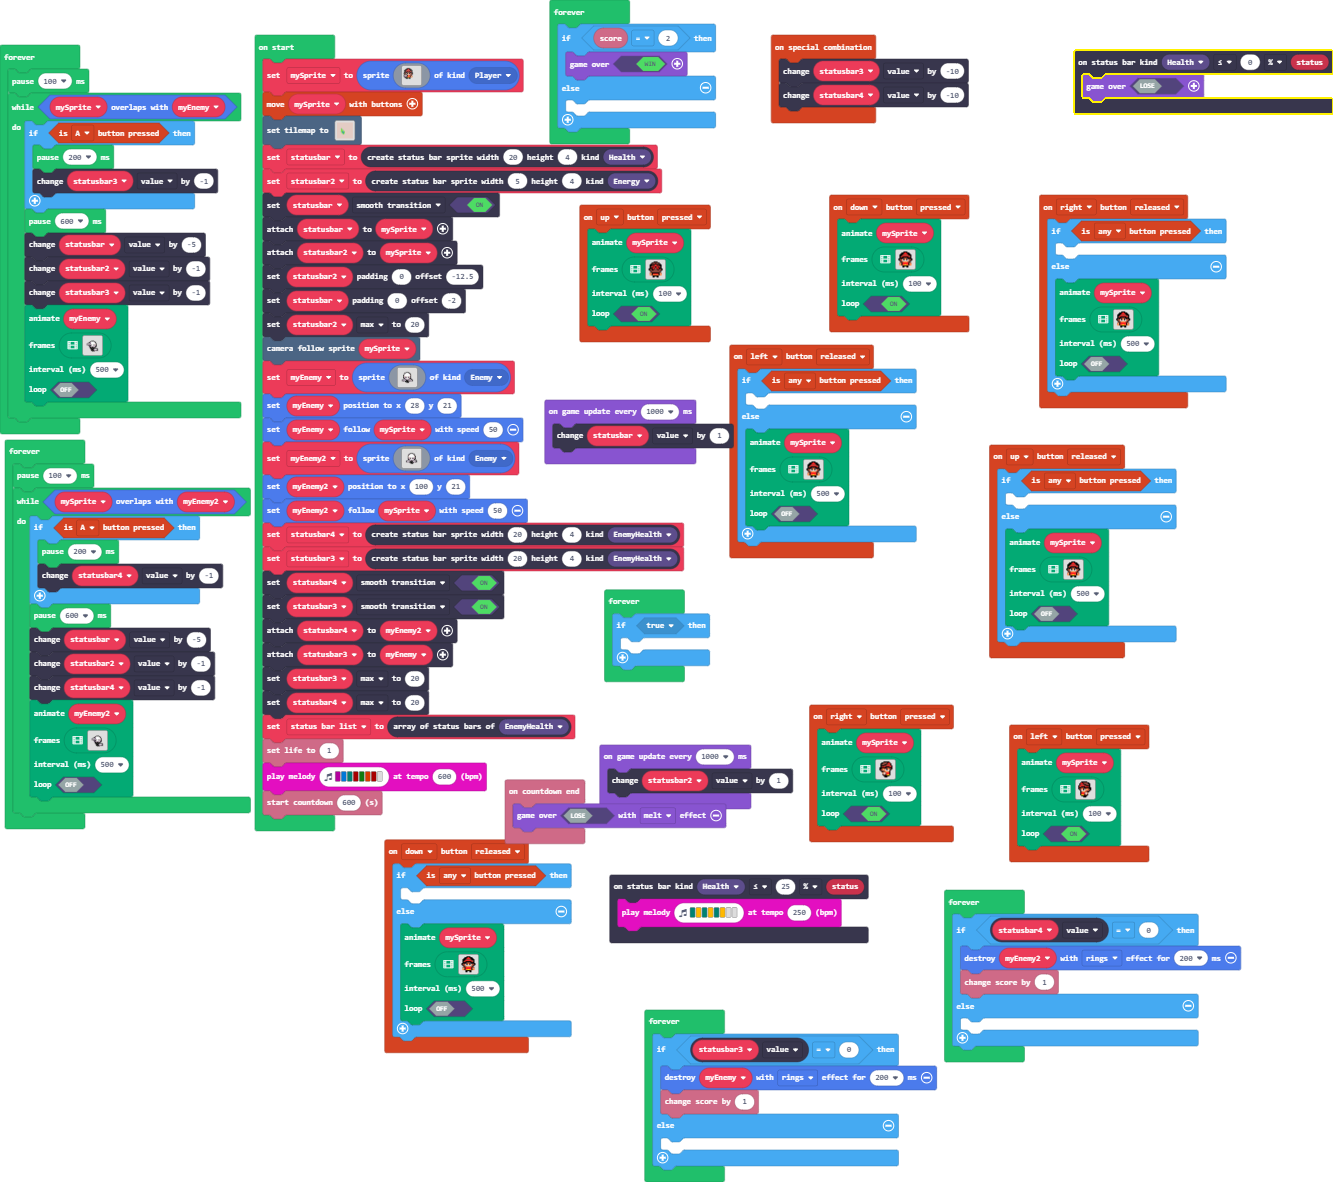
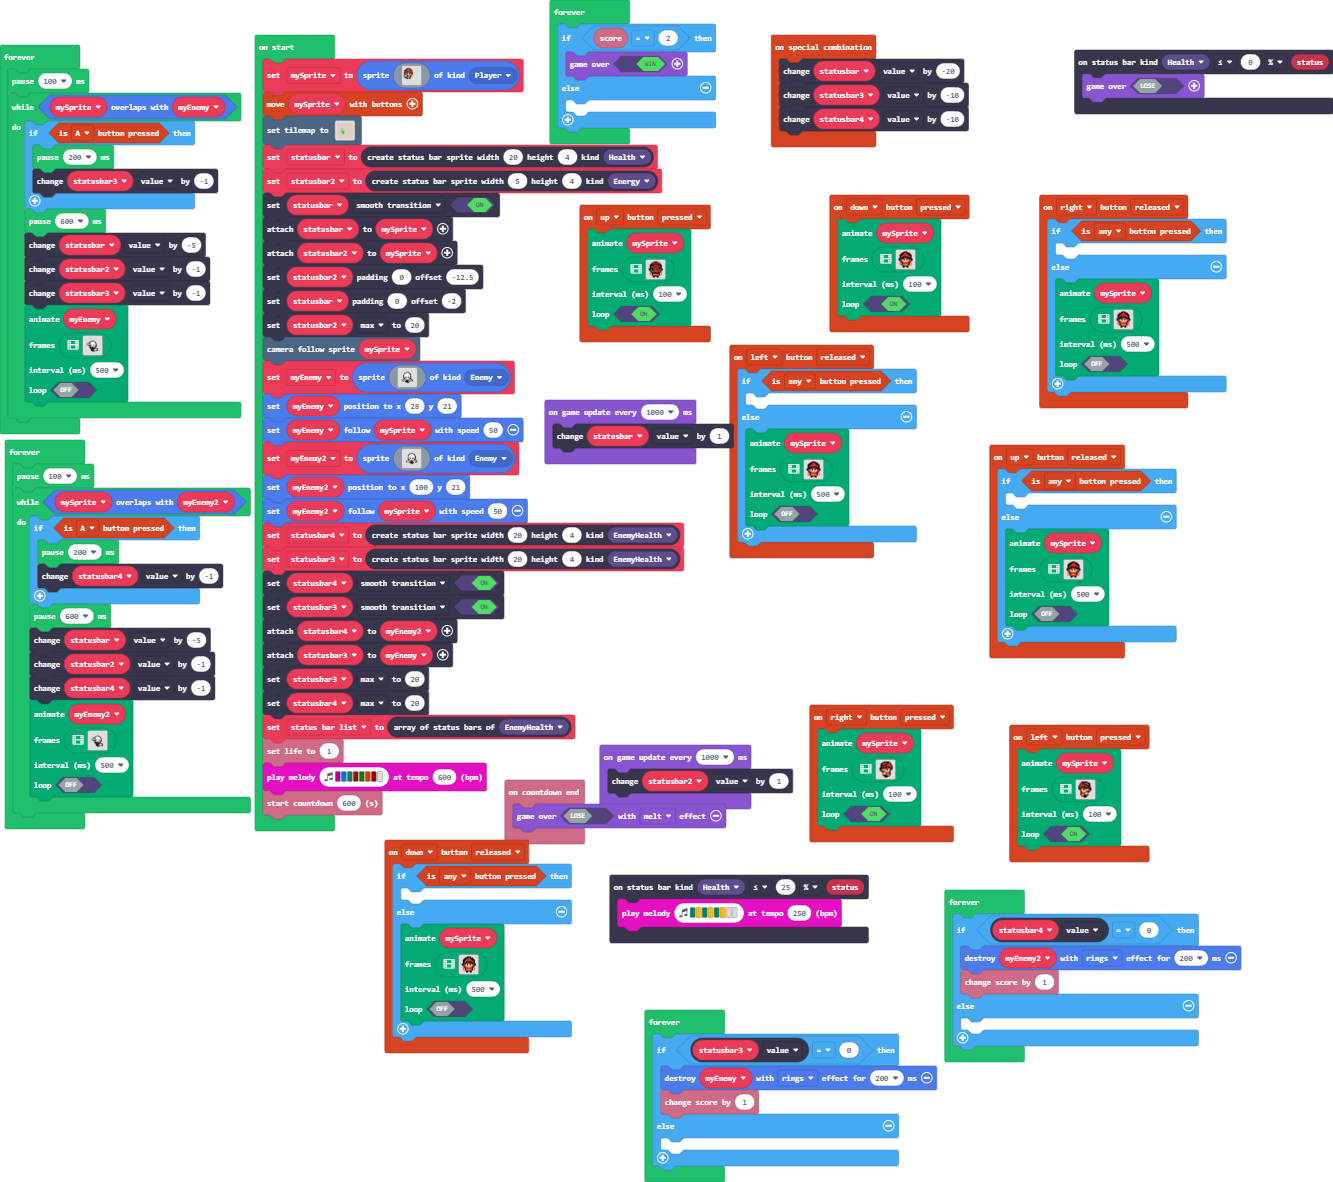
...

diff --git a/main.ts b/main.ts
@@ -434,11 +434,13 @@ controller.down.onEvent(ControllerButtonEvent.Pressed, function () {
     )
 })
 controller.combos.attachSpecialCode(function () {
+    statusbar.value += -20
     statusbar3.value += -10
     statusbar4.value += -10
 })
 let statusbar3: StatusBarSprite = null
 let statusbar4: StatusBarSprite = null
+let statusbar: StatusBarSprite = null
 let mySprite: Sprite = null
 mySprite = sprites.create(img`
     ........................
@@ -468,7 +470,7 @@ mySprite = sprites.create(img`
     `, SpriteKind.Player)
 controller.moveSprite(mySprite)
 tiles.setTilemap(tilemap`level1`)
-let statusbar = statusbars.create(20, 4, StatusBarKind.Health)
+statusbar = statusbars.create(20, 4, StatusBarKind.Health)
 let statusbar2 = statusbars.create(5, 4, StatusBarKind.Energy)
 statusbar.setStatusBarFlag(StatusBarFlag.SmoothTransition, true)
 statusbar.attachToSprite(mySprite)
@@ -744,11 +746,6 @@ forever(function () {
         500,
         false
         )
-    }
-})
-forever(function () {
-    if (true) {
-    	
     }
 })
 forever(function () {
